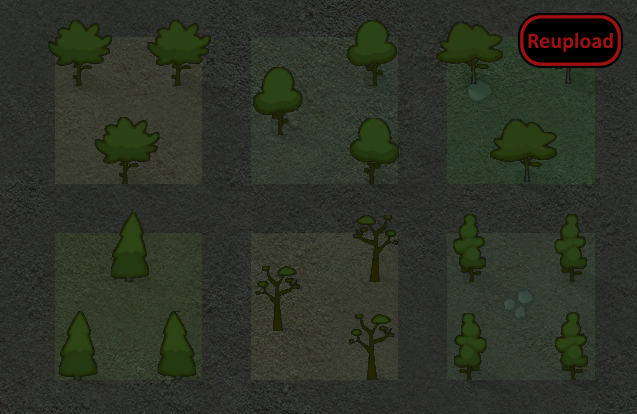
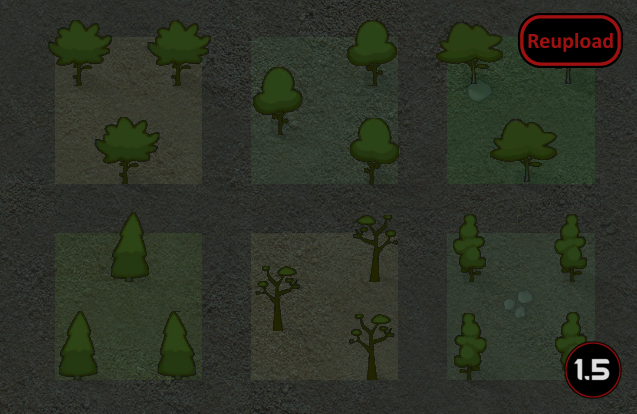
Mod updated for 1.5 and passed autotests

Changed region(s): [[0.865, 0.8116, 0.9843, 0.9855]]

diff --git a/README.md b/README.md
@@ -42,10 +42,13 @@ The Forestry Bureau authorized B (LinYeJuShouQuanB): the workload is 3000.
 
 -  See if the the error persists if you just have this mod and its requirements active.
 -  If not, try adding your other mods until it happens again.
--  Post your error-log using https://steamcommunity.com/workshop/filedetails/?id=818773962]HugsLib and command Ctrl+F12
+-  Post your error-log using https://steamcommunity.com/workshop/filedetails/?id=818773962]HugsLib or the standalone https://steamcommunity.com/sharedfiles/filedetails/?id=2873415404]Uploader and command Ctrl+F12
 -  For best support, please use the Discord-channel for error-reporting.
 -  Do not report errors by making a discussion-thread, I get no notification of that.
 -  If you have the solution for a problem, please post it to the GitHub repository.
+-  Use https://github.com/RimSort/RimSort/releases/latest]RimSort to sort your mods
 
 
+
+https://steamcommunity.com/sharedfiles/filedetails/changelog/2610390936]![Image](https://img.shields.io/github/v/release/emipa606/CIWSForestryBureauAuthorized?label=latest%20version&style=plastic&color=9f1111&labelColor=black)
 
